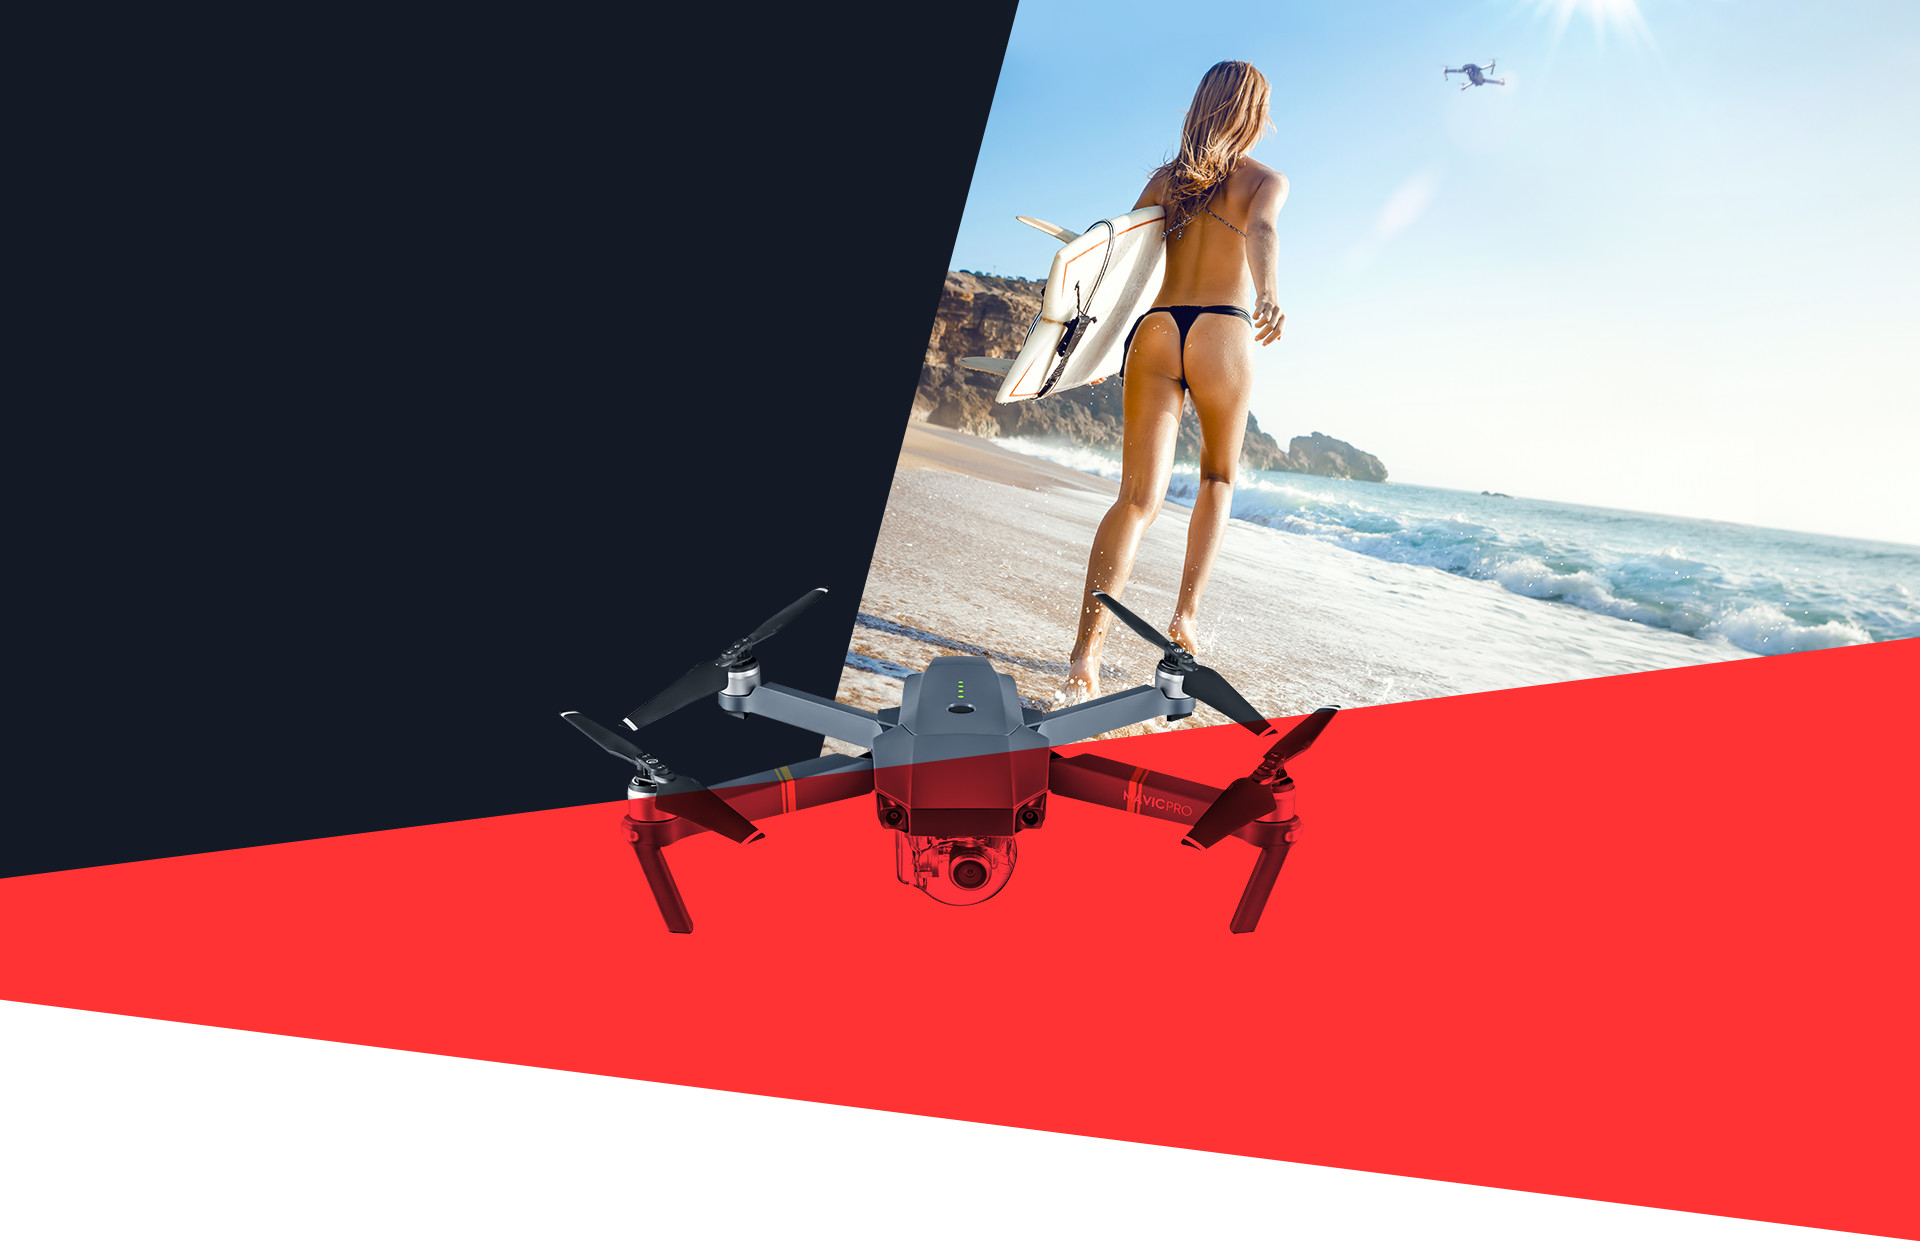
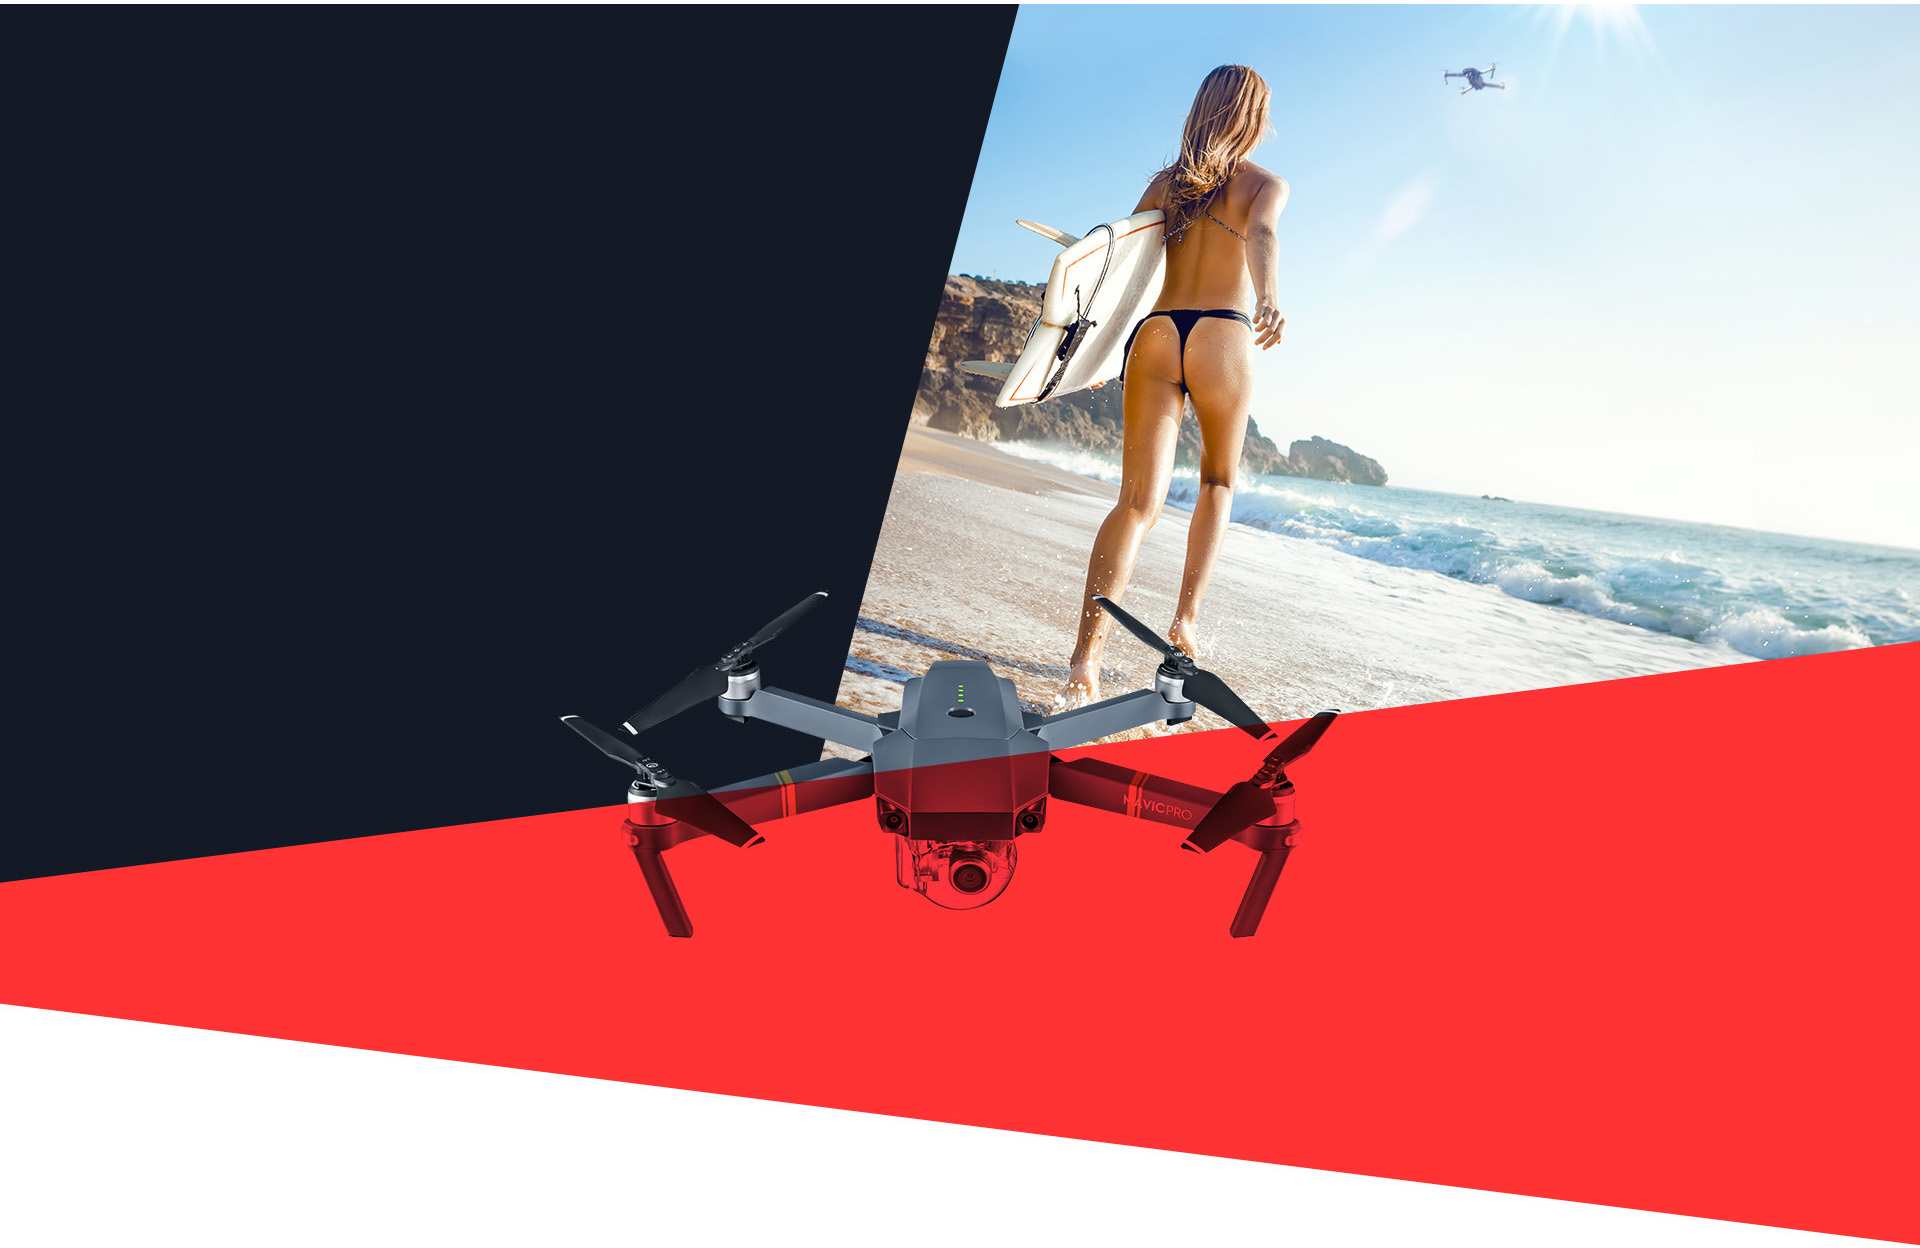
style all

diff --git a/css/style.css b/css/style.css
@@ -66,6 +66,7 @@ h1, h2, h3, h4, h5, h6 {
 
 .btn-round-white a{
   border: 2px solid #fff;
+  padding: 15px 65px;
 }
 
 .btn-send a {
@@ -85,10 +86,10 @@ header {
 .promo {
   position: relative;
   background-image: url(../img/top-bg.jpg);
-  background-size: 100% 1000px;
+  background-size: 100% 1100px;
   background-repeat: no-repeat;
   color: #fff;
-  padding-bottom: 155px;
+  padding-bottom: 305px;
 }
 .logo-hdr {
   display: inline-block;
@@ -129,8 +130,8 @@ header {
 
 .sale-label {
   position: absolute;
-  top: -40px;
-  padding: 6px;
+  top: -30px;
+  padding: 5px;
   background-color: #141a25;
   position: absolute;
   text-transform: uppercase;
@@ -146,11 +147,11 @@ header {
 .promo-sale-txt {
   font-family: ProximaNovaLight, sans-serif;
   font-size: 18px;
-  line-height: 30px; 
+  line-height: 26px; 
 }
 
 .promo-sale-left {
-  margin-top: 170px;
+  margin-top: 285px;
   position: relative;
   display: inline-block;
   vertical-align: baseline; 
@@ -159,7 +160,8 @@ header {
 .promo-sale-right {
   display: inline-block;
   vertical-align: baseline;
-  margin-left: 400px; 
+  margin-left: 400px;
+  padding-bottom: 20px;
 }
 
 .price {
@@ -178,8 +180,22 @@ header {
   font-size: 80px;
 }
 
+.new-price span {
+  margin-top: 20px;
+}
+// .new-price span {
+//   font-size: 40px;
+//   vertical-align: top;
+  
+// }
+
+.promo-sale-right > .btn-round-white {
+  margin-top: 20px;
+}
+
 .specific {
   padding-bottom: 180px;
+  margin-top: -130px;
 }
 
 .specific-item {
@@ -194,6 +210,7 @@ header {
 
 .specific-item-img-box:last-child {
   text-align: right;
+  margin-bottom: 0;
 }
 
 .specific-main-txt {
@@ -210,6 +227,10 @@ header {
   font-size: 15px;
   line-height: 25px;
   margin-top: 20px;
+}
+
+.slideWrap {
+  margin-top: -120px;
 }
 
 .advantage {
@@ -288,7 +309,7 @@ svg{
   line-height: 25px;
   color: #fff;
   text-transform: uppercase;
-  margin-top: 35px;
+  margin-top: 30px;
 }
 
 .products-inner {
@@ -304,7 +325,7 @@ svg{
   vertical-align: top;
   width: 360px;
   min-height: 800px;
-  margin-top: 105px;
+  margin-top: 85px;
   margin-right: 13%;
   padding-bottom: 50px;
 }
@@ -396,11 +417,16 @@ svg{
 
 .product-card > .btn-red-bg {
   margin: 0 auto;
+  margin-top: 30px;
+}
+.product-card > .btn-red-bg a {
+  padding: 15px 65px;
 }
 
 .call-form {
   color: #fff;
-  margin-top: 70px;
+  margin-top: 90px;
+  padding-bottom: 4px;
 }
 
 .call-form-left {
@@ -420,7 +446,6 @@ svg{
 .call-form-title {
   font-family: ProximaNovaLight, sans-serif;
   font-size: 50px;
-  margin-bottom: 10px;
 }
 
 .call-form-txt {
@@ -446,13 +471,14 @@ svg{
   background-color: transparent;
 
   background-image: url(../img/phone.png);
-  background-size: 5%;
+  background-size: 4%;
   background-repeat: no-repeat;
   
 }
 
 .call-form-right > .btn-callback {
   margin-left: 60px;
+  margin-top: 15px;
 }
 
 .vk-review {
@@ -491,10 +517,10 @@ svg{
 }
 
 .ftr-right-txt {
-  font-family: ProximaNovaRegular, sans-serif;
+  font-family: ProximaNovaLight, sans-serif;
   font-size: 20px;
   line-height: 30px;
-  margin-bottom: 60px;
+  margin-bottom: 50px;
 }
 
 .ftr-mail {
@@ -503,7 +529,7 @@ svg{
   font-size: 18px;
   line-height: 25px;
   outline: none;
-  width: 360px;
+  width: 340px;
   margin-bottom: 30px;
   border-top: none;
   border-left: none;

diff --git a/index.html b/index.html
@@ -71,12 +71,12 @@
 		</div>
 
 		<div class="slideWrap owl-carousel">
-  			<div><img src="img/slider.jpg" alt=""></div>
-  			<div><img src="img/slider.jpg" alt=""></div>
-  			<div><img src="img/slider.jpg" alt=""></div>
-  			<div><img src="img/slider.jpg" alt=""></div>
-  			<div><img src="img/slider.jpg" alt=""></div>
-  			<div><img src="img/slider.jpg" alt=""></div>
+  			<div><img src="img/slider.jpg" alt="MAVIC"></div>
+  			<div><img src="img/slider.jpg" alt="MAVIC"></div>
+  			<div><img src="img/slider.jpg" alt="MAVIC"></div>
+  			<div><img src="img/slider.jpg" alt="MAVIC"></div>
+  			<div><img src="img/slider.jpg" alt="MAVIC"></div>
+  			<div><img src="img/slider.jpg" alt="MAVIC"></div>
 		</div>
 	</div>
 </div>
@@ -150,7 +150,7 @@
 
 
 		<div class="video">
-			<iframe width="100%" height="560" src="https://www.youtube.com/embed/p1d_ptE6yrc" frameborder="0" allowfullscreen></iframe>
+			<iframe width="100%" height="560" src="https://www.youtube.com/embed/VFg-R51ybH0" frameborder="0" allowfullscreen></iframe>
 		</div>
 
 		<div class="buy-items-inner">
